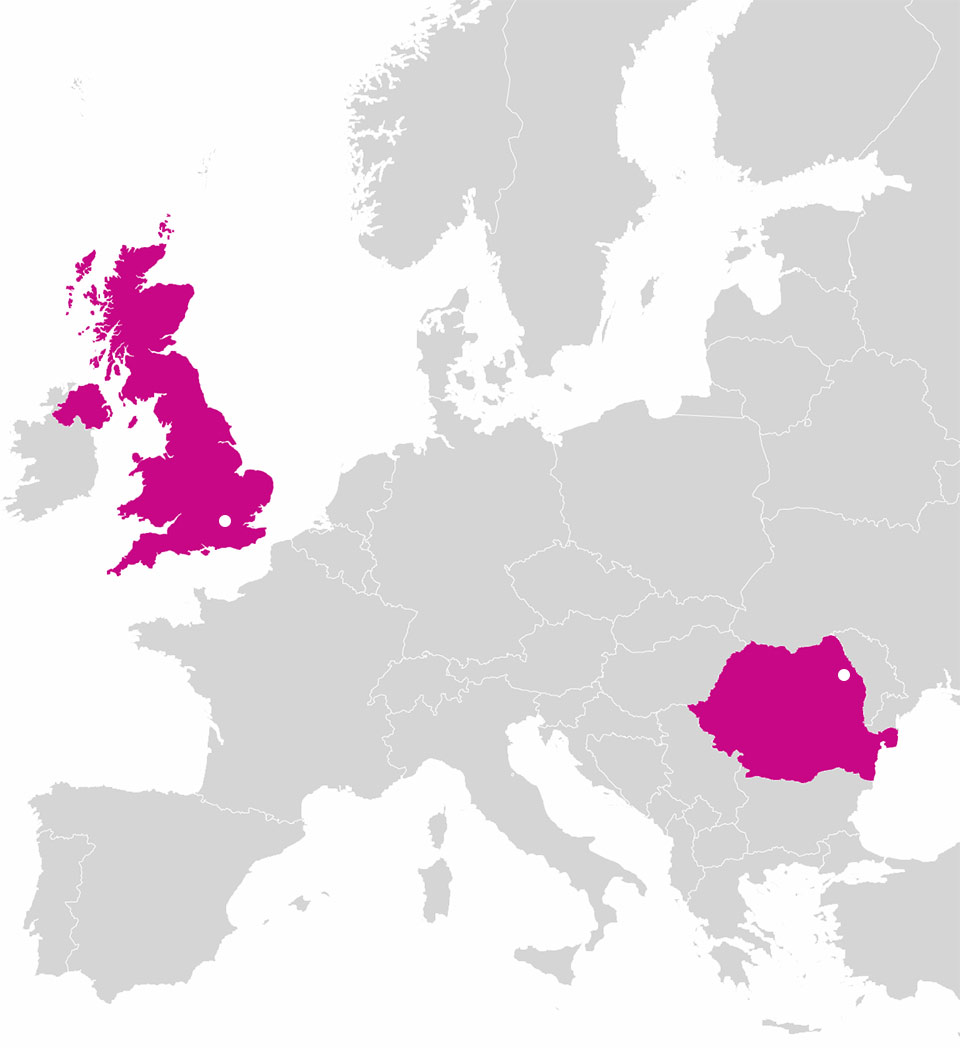
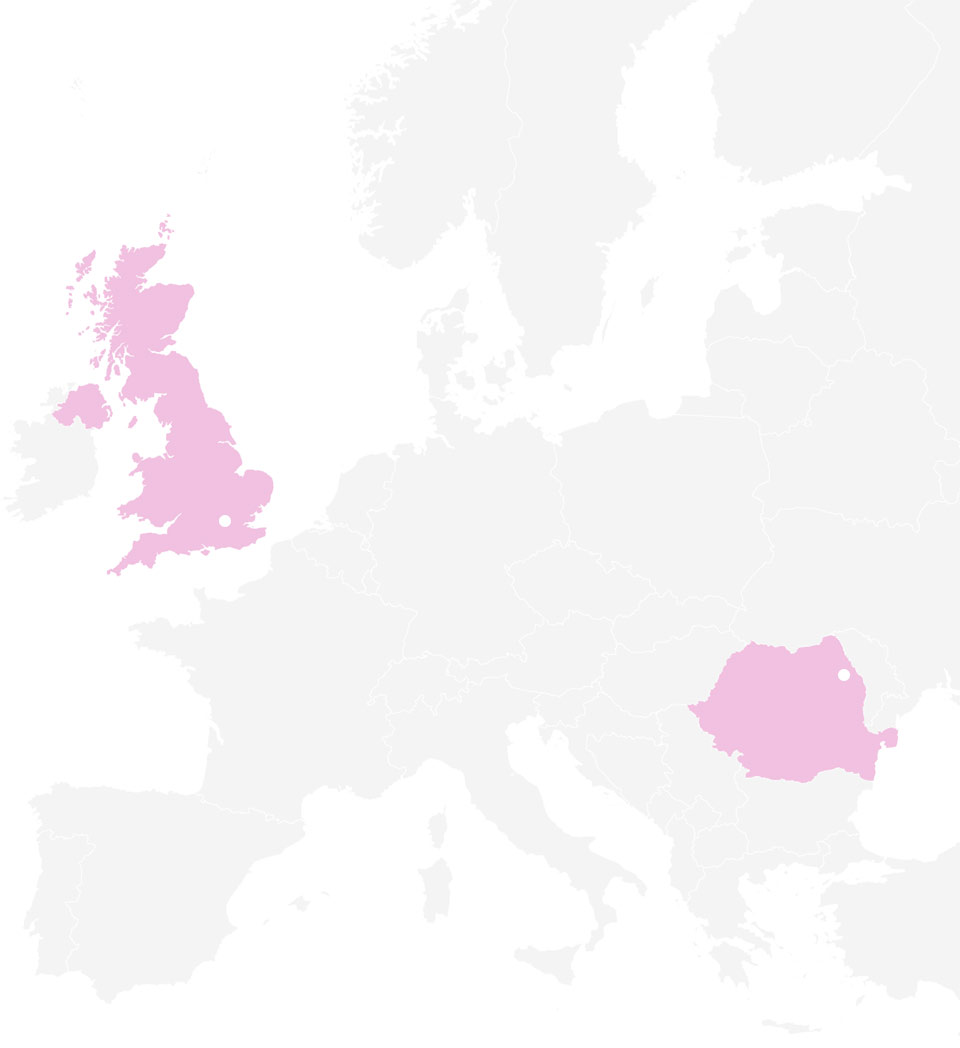
Fixed contact malfunctioning background opacity

diff --git a/client/scss/components/_contactPage.scss b/client/scss/components/_contactPage.scss
@@ -1,18 +1,6 @@
 #page-container article.page-contact {
     section.content {
         background: transparent url(../img/photos/map.jpg) right center no-repeat;
-        &:before {
-            content: '';
-            display: block;
-            position: absolute;
-            top: 0;
-            left: 0;
-            right: 0;
-            bottom: 0;
-            z-index: -1;
-            background: white;
-            opacity: .65;
-        }
         .bold {
             font-weight: $semibold;
         }
@@ -44,22 +32,6 @@
     }
     .columns {
         overflow: hidden;
-    }
-}
-
-@media screen and (max-width: 1400px) {
-    #page-container article.page-contact {
-        section.content:before {
-            opacity: .75;
-        }
-    }
-}
-
-@media screen and (max-width: 780px) {
-    #page-container article.page-contact {
-        section.content:before {
-            opacity: 1;
-        }
     }
 }
 
